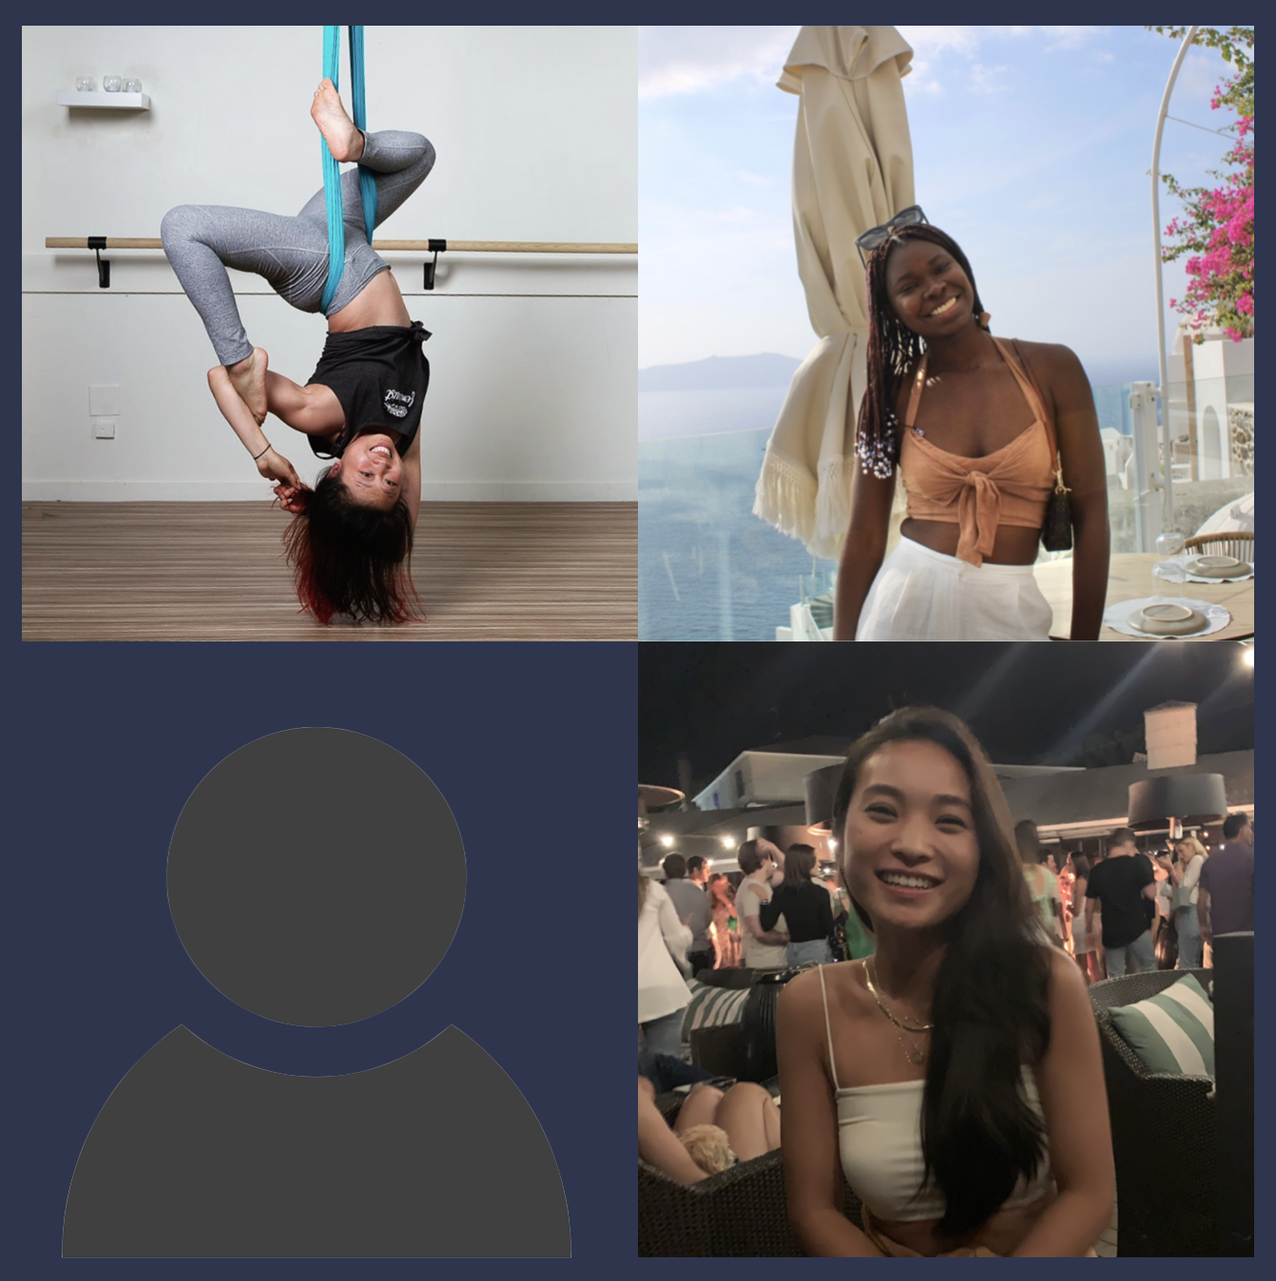
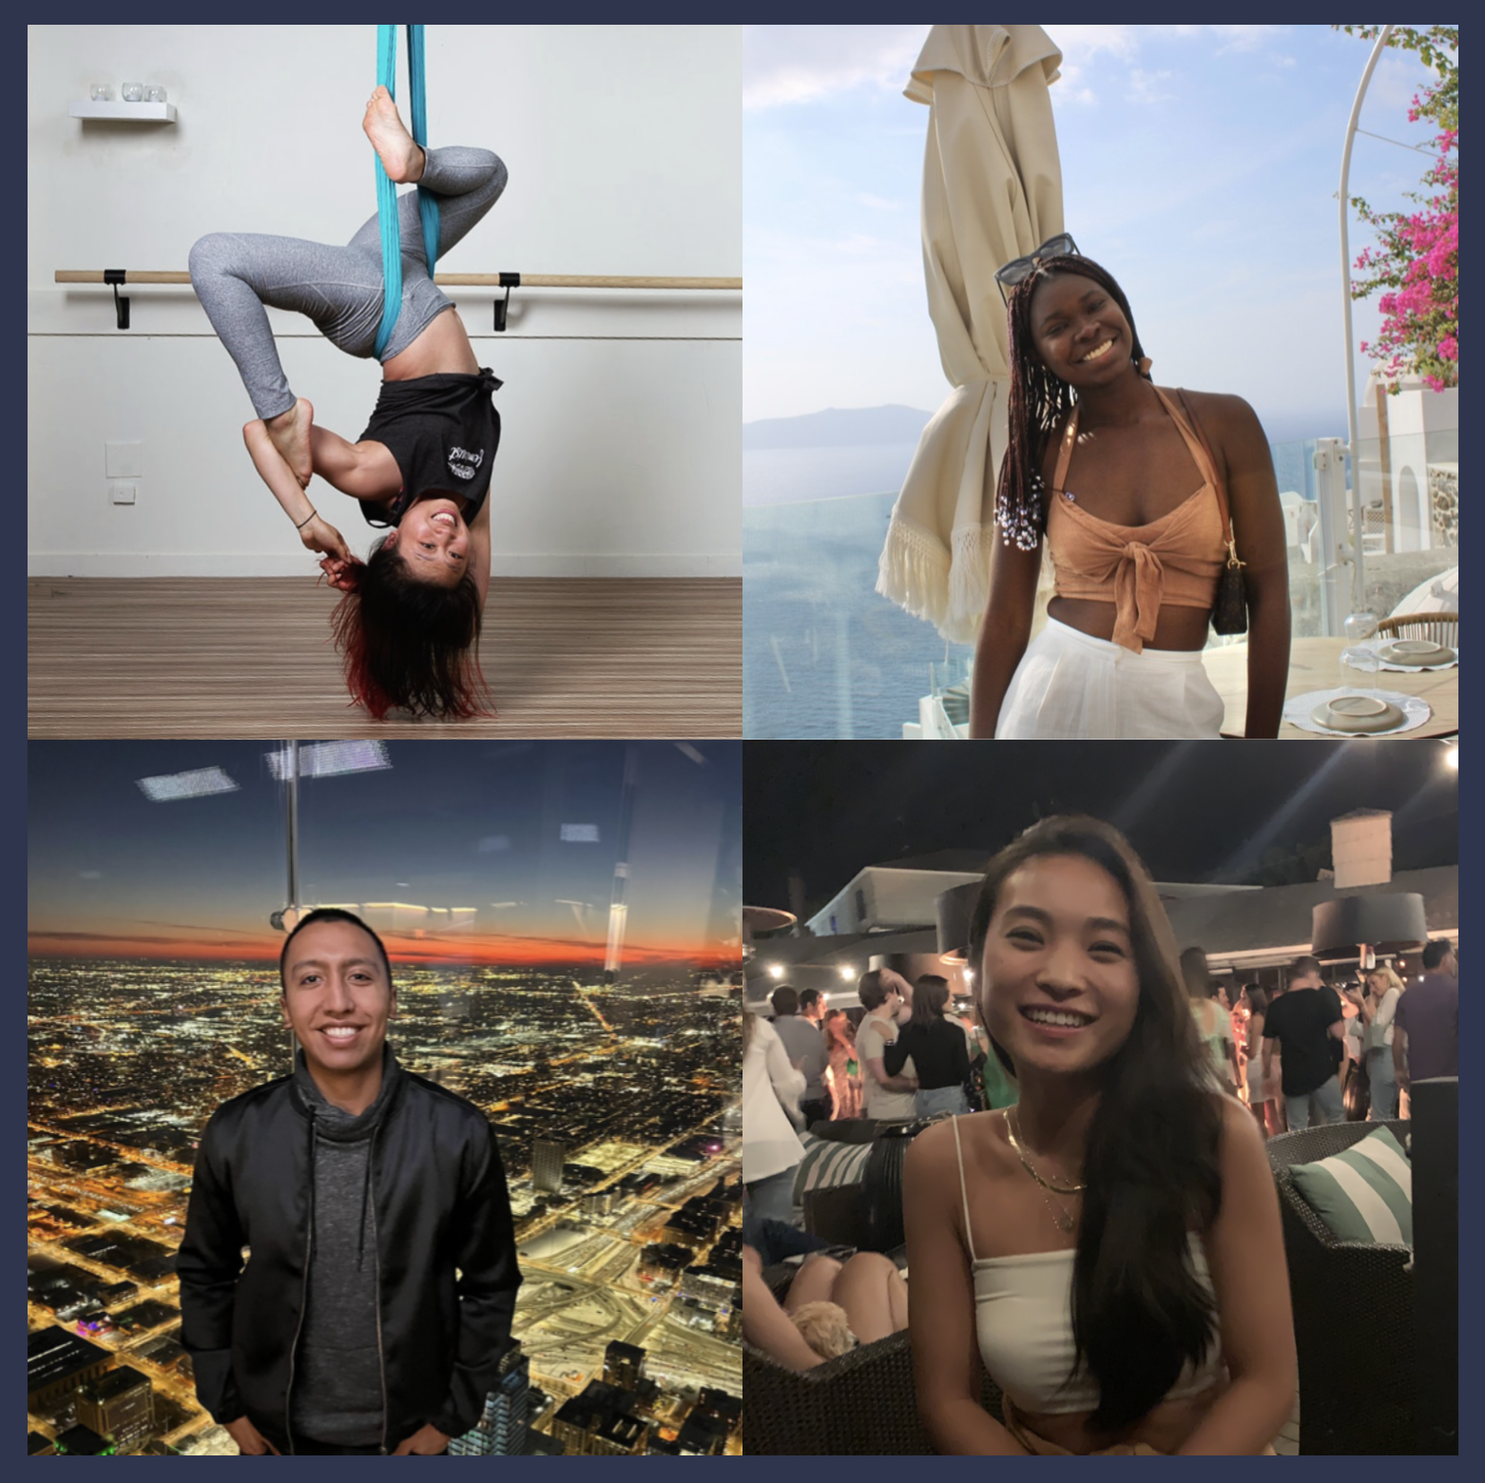
add committee + sponsor info

diff --git a/contact.html b/contact.html
@@ -223,8 +223,299 @@
 										<h2>Andres Alvarez </h2>
 										<p>Andres graduated course 22 and was an active member of Phi Kappa Sigma, the MIT Energy Club, ANS and GEL. He currently lives in D.C.. and works in the renewable energy space. He is no stranger to large event planning and is dedicated to making the 2017 pi reunion the highlight event of 2020.
 										</p></div>
-										
 									</div>
+									<div class = "row">
+										<div class = "col-4">
+											<img src="images/Committee/sina_coChair.png" width="100%" class="img-fluid"/>
+										</div>
+										<div class = "col-8">
+										<h2>Sina Booeshaghi</h2>
+										<p>A south Florida native and avid tea drinker, Sina currently resides in Pasadena California and is a 3rd year PhD student at Caltech. While at MIT he majored in course 18 and 2, was a member of the Kappa Sigma fraternity, and ran Tea with Teachers.  His mission is to make Pi Reunion the most well attended Pi yet!
+										</p></div>
+									</div>
+									<div class = "row">
+										<div class = "col-4">
+											<img src="images/Committee/john_p_chair.png" width="100%" class="img-fluid"/>
+										</div>
+										<div class = "col-8">
+										<h2>John Peurifoy</h2>
+										<p>
+											Detroit born, Missouri raised; John graduated MIT 6-1 and 8; was about to start a Ph.D., then discovered crypto and has jumped down the rabbit hole. He works at a growing startup in New York called Floating Point Group, and his mission is to make one helluva story out of Pi Reunion.
+										</p></div>
+									</div>
+									<div class = "row">
+										<div class = "col-4">
+											<img src="images/Committee/jasmin_cochair.png" width="100%" class="img-fluid"/>
+										</div>
+										<div class = "col-8">
+										<h2>Jasmin Joseph-Chazan</h2>
+										<p>
+											Jasmin graduated course 20 and was an active member of MIT’s varsity softball team, Kesem chapter, and Alpha Chi Omega chapter. She is currently an immunology PhD at Harvard and enjoys spending her “free” time in the aerial/pole studio, on a mountain, doing weeb shenanigans, or curating playlists on Spotify. She’s been psyched about Pi since graduation, so she’s even more stoked to see MegaPi through this summer!
+										</p></div>
+									</div>
+									<div class = "row">
+										<div class = "col-4">
+											<img src="images/Committee/kelsey.png" width="100%" class="img-fluid"/>
+										</div>
+										<div class = "col-8">
+										<h2>Kelsey Becker</h2>
+										<p>
+											Kelsey graduated with a 21-CMS / 15-1 double major and 17 minor.  While at MIT, she served as ASA President, LSC Chairman, Curling Club President, MacGregor House Social and E-Entry Chairs, and an Institute Events organizer for events like Commencement and OneWorld.  Still in Boston, she stays involved with MIT by serving on the 2019 Alumni Class Council, interviewing for the Educational Council, and coaching for the MIT Curling Team.  In the winter months you can usually find her playing or instructing on curling ice, but she is ready to thaw out for an amazing weekend in Vegas! 
+										</p></div>
+									</div>
+									<div class = "row">
+										<div class = "col-4">
+											<img src="images/Committee/racha_cochair.png" width="100%" class="img-fluid"/>
+										</div>
+										<div class = "col-8">
+										<h2>Radha Mastandrea</h2>
+										<p>
+										Radha majored in course 8 and spent her time at MIT dancing with MIT Bhangra and organising events for the Undergraduate Women in Physics group. After receiving two masters degrees in physics at the University of Cambridge, Radha decided that three physics degrees wasn’t enough, and she is now working towards a PhD in Physics at UC Berkeley. Radha is super excited to reconnect with everyone in July!
+										</p></div>
+									</div>
+									<div class = "row">
+										<div class = "col-4">
+											<img src="images/Committee/nina_comms.jpeg" width="100%" class="img-fluid"/>
+										</div>
+										<div class = "col-8">
+										<h2>Nina Lutz</h2>
+										<p>
+										Nina did her undergrad and MS at MIT and spent almost all of her time at the MIT Media Lab, architecture studio, and walking backwards as a tour guide. She made lots of weird computer and fabrication art and research projects, and still does. She's currently telling engineers that everything will be ok at Redfin and is based in Seattle, WA. Nina is excited to play poker and hang out with her classmates in Vegas.
+										</p></div>
+									</div>
+									<div class = "row">
+										<div class = "col-4">
+											<img src="images/Committee/marianne_comms.png" width="100%" class="img-fluid"/>
+										</div>
+										<div class = "col-8">
+										<h2>Marianne Olsen</h2>
+										<p>
+										Marianne majored in Course 2 and now travels the US helping manufacturing plants become more efficient. At MIT she lived in MacGregor E entry and loved answering questions for ESP, GEL, and tour guides, so it's hopefully no surprise she's on the Communications team for Mega-Pi. She can't wait to see you all in Vegas!
+										</p></div>
+									</div>
+									<div class = "row">
+										<div class = "col-4">
+											<img src="images/Committee/billy_c_comms.png" width="100%" class="img-fluid"/>
+										</div>
+										<div class = "col-8">
+										<h2>Billy Caruso</h2>
+										<p>Billy lives in Saratoga, California and enjoys watching the sunrise every morning. After majoring in Course 6.3, he started working on HCI at a popular fruit company. At MIT Billy was a member of the Burton Third Bombers, Sigma Chi Fraternity, First Generation Program, Captain of the Varsity Rifle Team, and often chilled in Anne Hunter’s office. He is excited for MegaPi and is working on the Communications committee. In his free time he enjoys gardening, fixing old electric cars, drinking wine and visiting his friends around the SF Bay Area.
+										</p></div>
+									</div>
+									<div class = "row">
+										<div class = "col-4">
+											<img src="images/Committee/steph_Comms.png" width="100%" class="img-fluid"/>
+										</div>
+										<div class = "col-8">
+										<h2>Stephanie Guo</h2>
+										<p>Steph is from Houston, TX originally but lives in Boston now, working as a Product Operations Specialist at Labster, where she happily eats free lunch and breakfast everyday and plays with a lot of cute puppies.  She studied Course 2A-15 at MIT and was an active member of the Alpha Phi Sorority, the Track & Field team, the Lacrosse team, Resonance Acapella group, Design for America, and the Committee of Student Support and Wellness.  She loves to run and play sports, read, and travel when she can.  Steph believes we can make this Pi Reunion the best one yet! :) 
+										</p></div>
+									</div>
+									<div class = "row">
+										<div class = "col-4">
+											<img src="images/Committee/burham_finance.png" width="100%" class="img-fluid"/>
+										</div>
+										<div class = "col-8">
+										<h2>Burhan Azeem
+										</h2>
+										<p>
+											Burhan graduated Course 3A and spent much of his time at MIT with his living communities iHouse and LMF. After graduation, he joined his friends at their startup, daytoday, and is now a City Councillor in Cambridge. He really enjoys hanging out with friends both old & new and is so excited to see y’all in Las Vegas this summer! 
+										</p></div>
+									</div>
+									<div class = "row">
+										<div class = "col-4">
+											<img src="images/Committee/billy_m_finance.png" width="100%" class="img-fluid"/>
+										</div>
+										<div class = "col-8">
+										<h2>Billy Moses
+										</h2>
+										<p>At MIT, Billy was a course 6-2 & 8, where he is currently finishing up his Ph.D in CS and getting up to other shenanigans! In undergrad he was the 2017 president of Maseeh, rowed for the lightweight men’s team. In his free time he likes building electronics projects, playing electric violin, and trivia/board games with friends. He’s part of the finance crew for MegaPi and is excited to see everyone again!
+										</p></div>
+									</div>									
+										<div class = "row">
+										<div class = "col-4">
+											<img src="images/Committee/libby_finance.png" width="100%" class="img-fluid"/>
+										</div>
+										<div class = "col-8">
+										<h2>Libby Koolik
+										</h2>
+										<p>Libby is a PhD student in Environmental Engineering at UC Berkeley studying air pollution. She did her BS in course 12 and her MEng in course 1. At MIT, she lived in Simmons Hall and the Alpha Chi Omega house. Now, she lives in Berkeley, where she enjoys visiting craft breweries and hanging out with her cats. She hopes to make Pi Reunion a fun and inviting experience for everyone!
+										</p></div>
+									</div>
+									<div class = "row">
+										<div class = "col-4">
+											<img src="images/Committee/sravya_Hotel.png" width="100%" class="img-fluid"/>
+										</div>
+										<div class = "col-8">
+										<h2>Sravya Vishnubhatla
+										</h2>
+										<p>Sravya graduated course 6-3 and 15 and was part of Kappa Alpha Theta and MIT Mirchi. After graduating, she worked at Microsoft on Windows11 and Surface Duo. For the last two years, she’s been at the Stanford GSB completing her MBA and is excited to top off graduation with an awesome Pi Reunion. In her free time, she’s part of several dance companies, choreographing and performing in off-Broadway productions.
+
+										</p></div>
+									</div>
+									<div class = "row">
+										<div class = "col-4">
+											<img src="images/Committee/christie_logs.png" width="100%" class="img-fluid"/>
+										</div>
+										<div class = "col-8">
+										<h2>Christie Hong
+
+										</h2>
+										<p>Christie graduated Course 6-3 where she was an active member of the MIT Consulting Group, and MIT Chinese Students Club. After her MEng, she now resides in New York City, working as an engineer at Retool. When she’s not staring at her laptop, she enjoys bouldering, gaming, fine-dining, and twiddling her cat.
+
+										</p></div>
+									</div>
+																		<div class = "row">
+										<div class = "col-4">
+											<img src="images/Committee/nick_logs.png" width="100%" class="img-fluid"/>
+										</div>
+										<div class = "col-8">
+										<h2>Nick Schwartz
+
+										</h2>
+										<p>Nick graduated from Course 2 at MIT, where he was involved with Camp Kesem, Hyperloop, and PBE. He currently lives in Washington, DC and is working on a PhD at the University of Maryland to design and build a fusion energy reactor. Outside of the lab, you can find him training his dog to not be scared of tiles, hiking in Shenandoah, and overusing his slow cooker.
+
+										</p></div>
+									</div>
+																		<div class = "row">
+										<div class = "col-4">
+											<img src="images/Committee/neil_logs.png" width="100%" class="img-fluid"/>
+										</div>
+										<div class = "col-8">
+										<h2>Neil Aggarwal
+
+										</h2>
+										<p>Neil studied Course 3 at MIT, and was an active member of the Logs, GEL and various Next House clubs. Originally from Vienna, he currently lives in Boston working as a technical writer. In his spare time, Neil enjoys all things music (listening/producing/performing), games (video/board/trivia), and food (mostly just burning his tongue off after making something ridiculously spicy). Neil’s super excited to meet faces old and new alike at MegaPi!
+
+										</p></div>
+									</div>
+																		<div class = "row">
+										<div class = "col-4">
+											<img src="images/Committee/citali_eventsShows.png" width="100%" class="img-fluid"/>
+										</div>
+										<div class = "col-8">
+										<h2>Citlali Trigos-Raczkowski
+
+										</h2>
+										<p>
+											Citlali majored in 18C and spent her time in Spanish House, Mujeres Latinas, and SK. She’s now working as a software engineer in SF and enjoys reading nonfiction, cooking vegan meals, and looking for sunny spots with her 16 year old cat.
+
+										</p></div>
+									</div>
+																		<div class = "row">
+										<div class = "col-4">
+											<img src="images/Committee/jeremy_eventsShows.png" width="100%" class="img-fluid"/>
+										</div>
+										<div class = "col-8">
+										<h2> Jeremy Bogle
+										</h2>
+										<p>Jeremy studied Course 6-2 at MIT, and was an active member of the varsity swimming and water polo teams, and a member of Theta Tau fraternity. Jeremy grew up in Boston and after completing his M-Eng in computer systems, now lives in San Francisco and works as a software engineer. Jeremy enjoys activities like skiing and going to the beach and listening to music, and is excited to be helping with Mega-Pi planning!
+
+										</p></div>
+									</div>
+									<div class = "row">
+										<div class = "col-4">
+											<img src="images/Committee/matt_n_eventsShows.png" width="100%" class="img-fluid"/>
+										</div>
+										<div class = "col-8">
+										<h2> Matt Nicolai
+										</h2>
+										<p>Matt studied Course 2A-Product Design at MIT, where he was an active member of the varsity football team, Delta Kappa Epsilon fraternity, Amphibious Achievement, and MIT intramurals. Originally from Long Island, NY, he currently lives in Boston and works as a consultant. Matt loves to travel and is excited to be helping plan Mega-Pi!
+
+										</p></div>
+									</div>
+									<div class = "row">
+										<div class = "col-4">
+											<img src="images/Committee/joe_f_eventsShows.png" width="100%" class="img-fluid"/>
+										</div>
+										<div class = "col-8">
+										<h2>  Joseph Figura
+										</h2>
+										<p>Joe is from the suburbs of Chicago and now lives in San Francisco, where he’s building a drone delivery startup. He graduated course 16 and 8, and at school he was a member of Zeta Psi, rowed on Heavyweight Crew, and did many aerospace side projects. Joe has hiked all around California and hopes to climb two fourteener peaks this year. He’s always appreciated a well-run happy hour and is excited for the opportunity to make Pi Reunion excellent.
+
+										</p></div>
+									</div>
+									<div class = "row">
+										<div class = "col-4">
+											<img src="images/Committee/piper_EventsOutdoor.png" width="100%" class="img-fluid"/>
+										</div>
+										<div class = "col-8">
+										<h2> Piper Lim
+										</h2>
+										<p>Piper majored in course 2 and minored in 21A. At MIT, they lived on 2nd East in East Campus, was the 2016 president of EC, and a member of DormCon. Piper currently works in SoCal as a mechanical & thermal engineer on electric aircraft. Her hobbies are always all over the place, but include backpacking, leatherwork, fire sculptures, and making furniture for their cat. 
+
+
+										</p></div>
+									</div>
+									<div class = "row">
+										<div class = "col-4">
+											<img src="images/Committee/wei_EventsBars,MCC.png" width="100%" class="img-fluid"/>
+										</div>
+										<div class = "col-8">
+										<h2> Wei Low
+										</h2>
+										<p>Wei graduated 6-2 with a minor in Theatre Arts. At MIT, they lived in East Campus (whoooooaaaa PUTZ) and were part of Kappa Alpha Theta, Senior Class Council, and Association of Taiwanese Students. They are currently based in Seattle, working as a software dev and aerial arts instructor. You’ll find Wei in local fringe theatres, defying gravity in some silks or a round metal hoop. Wei is excited to make this Pi the littest ever!! 🔥
+
+
+										</p></div>
+									</div>
+									<div class = "row">
+										<div class = "col-4">
+											<img src="images/Committee/selam_MMC.png" width="100%" class="img-fluid"/>
+										</div>
+										<div class = "col-8">
+										<h2> Selam Gano
+										</h2>
+										<p>Selam studied Course 2A-Robotics at MIT and spent her free time in lots of cultural and social student groups, like Chinese Students Club, Ethiopian-Eritrean Students Association, African Students Association, and Delta Phi Epsilon. She also wrote about MIT student life as an admissions blogger. She stuck around in Cambridge, MA and now works at sensor technology company Pendar Technologies, integrating sensors with robots (and still maintains an active blog!)
+										</p></div>
+									</div>
+									<div class = "row">
+										<div class = "col-4">
+											<img src="images/Committee/gabriel_eventsMCC.png" width="100%" class="img-fluid"/>
+										</div>
+										<div class = "col-8">
+										<h2> Gabriel Ginorio
+										</h2>
+										<p>
+										Gabriel is a proud 2A-20 alum and member of the MegaPi Major Collaborations committee. At MIT, Gabriel was actively engaged in the entrepreneurship ecosystem on campus and was involved in a variety of clubs and communities including the Puerto Rican Students Association (APR), the Association of Student Activities (ASA) and his fraternity, Kappa Sigma. After graduating from the Institute, Gabriel joined an MIT-founded eCommerce startup called Thrasio as an early employee and now leads their Business Intelligence function for the Product Launch department. He is also an active alum volunteering on the MIT10 Alumni Committee and as an Educational Counselor for admissions.
+
+										</p></div>
+									</div>
+									<div class = "row">
+										<div class = "col-4">
+											<img src="images/Committee/Simi_EventsBars.png" width="100%" class="img-fluid"/>
+										</div>
+										<div class = "col-8">
+										<h2> Simi Bright 
+										</h2>
+										<p>
+										Simi studied Course 10 at MIT, and was an active member of the African Student Association and Women's Club Soccer. She is currently working in New Jersey at Bristol Myers Squibb as a development engineer. In her free time she enjoys traveling, making cocktails, roller skating and kickboxing. Simi is excited to plan MegaPi and is on the events committee. 
+										</p></div>
+									</div>																																				
+									<div class = "row">
+										<div class = "col-4">
+											<img src="images/Committee/brandon.png" width="100%" class="img-fluid"/>
+										</div>
+										<div class = "col-8">
+										<h2> Brandon Zabala
+										</h2>
+										<p>
+										Brandon graduated Course 10 in 2018.  During undergrad, he was a member of Nu Delta and enjoyed playing intramural basketball.  He is now living in Los Angeles, California working for Northrop Grumman on satellites and spacecrafts.  Most notably, he had the chance to work on NASA’s James Webb Space Telescope before its launch in December 2021.
+
+										</p></div>
+									</div>
+									<div class = "row">
+										<div class = "col-4">
+											<img src="images/Committee/sophia_EventsBar.png" width="100%" class="img-fluid"/>
+										</div>
+										<div class = "col-8">
+										<h2> Sophia E
+										</h2>
+										<p>
+										Sophia was Course 6-3 at MIT, where she was involved in the Asian American Association and Kappa Alpha Theta. Originally from NJ & CT, she’s been living and working in NYC since graduation and enjoys exploring the city, finding new music to dance to, and optimizing travel itineraries. She’s excited to help plan MegaPi with the bars / dayclubs / nightclubs team and can’t wait to see everyone in Vegas!
+
+										</p></div>
+									</div>									
 								</div>
 							</section>
 

diff --git a/sponsors.html b/sponsors.html
@@ -78,9 +78,12 @@
 										</div>
 
 									<div class = "row pt-5">
-											<div class = "col-8">
-												<a href = "https://www.dover.com"><h1>Dover</h1></a>
-												<h3>Logo coming soon!</h3>
+											<div class = "col-7">
+												<h1>Dover</h1>
+												<a href = "https://www.dover.com"><img src="images/logos/dover.svg"  class="img-fluid"></a>
+											</div>
+											<div class = "col-5">
+												<p>Dover is the recruiting orchestration platform for the world's top companies. Founded by MIT Alums who were both on their PiComm planning committee. We've raised $23M from Y Combinator and Tiger Global and have over 200 customers. We're hiring across all roles! Come solve interesting engineering, data and product challenges with us - dover.com/careers or email mit@dover.com, or come talk to one of us at Pi.</p>
 											</div>
 										</div>
 										<div class = "row pt-5">
@@ -96,14 +99,24 @@
 										<div class = "row pt-5">
 											<div class = "col-7">
 												<h1>Forum Systems</h1>
-												<a href = "https://www.forumsys.com"><img src="images/logos/Forum Systems Logo for MIT.jpg"  class="img-fluid"></a>
+												<a href = "https://www.forumsys.com"><img src="images/logos/Forum Systems Logo for MIT.png"  class="img-fluid"></a>
 
 											</div>
+											<div class = "col-5">
+<p>Forum Systems is a leader in intelligent API gateway technology, deep data analytics, and cloud technologies. Our products are used by some of the largest global companies and government agencies. An MIT-founded company that preserves the spirits of our origins, we anticipate major growth in the coming quarters as we move into a new vertical: health tech. We are currently hiring engineers for our Needham, MA and Detroit, MI offices—especially those with Java, API, or machine learning expertise. </p>											</div>
+
 										</div>
 										<div class = "row pt-5">
-											<div class = "col-8">
+											<div class = "col-7">
 												<h1>Genie</h1>
 												<a href = "https://www.genie.xyz"><img src="images/logos/genie.png"  class="img-fluid"></a>
+											</div>
+											<div class = "col-5">
+												<p>Genie (www.genie.xyz) is the first NFT marketplace aggregator.
+
+In simple terms, we help users access supply and demand across all NFT marketplaces (e.g., OpenSea, LooksRare, and Coinbase) at once, improving price discovery. We also serve users by reducing Ethereum gas fees and surfacing trending collections.
+ 
+We have executed $500M in transaction volume since launching in November 2021. We’re just getting started — come build the future of NFT commerce with us! We have a talented team featuring MIT alumni and former employees of Google, Amazon, Microsoft, and Uber.</p>
 											</div>
 										</div>
 									</div>
